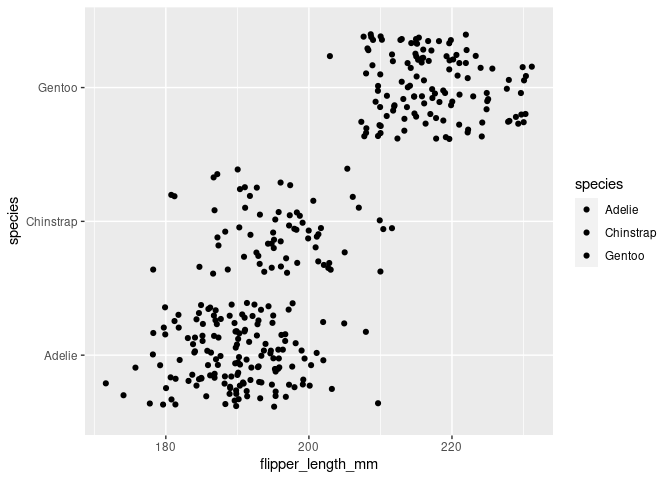
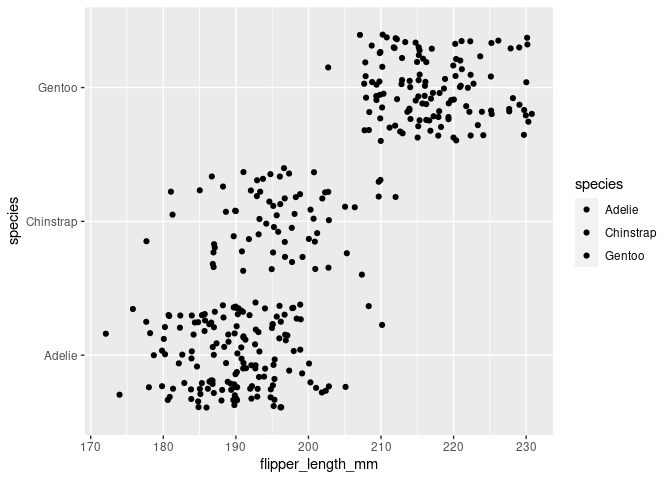
Completed the advanced section of the excercise by including the scatter plots and responses.

diff --git a/activity02-ggplot2-intro.md b/activity02-ggplot2-intro.md
@@ -320,16 +320,36 @@ exploring scatterplots using `{ggplot2}`.
 In the code chunk below, create a scatterplot for the relationship
 between `flipper_length_mm` and `body_mass_g`.
 
+``` r
+ggplot(data = penguins, mapping = aes(x = flipper_length_mm, y = body_mass_g)) +
+geom_point()
+```
+
+    ## Warning: Removed 2 rows containing missing values (geom_point).
+
+![](activity02-ggplot2-intro_files/figure-gfm/flipper_vs_mass-1.png)<!-- -->
+
 Describe any patterns that you notice.
 
-**Response**:
+**Response**:flipper length has a positive relationship to bodymass i.e
+the longer the flipper length the higher the body mass.
 
 Recreate your scatterplot in the code chunk below; however, *map*
 `species` to the `color` and `shape` aesthetics.
 
+``` r
+ggplot(data = penguins, mapping = aes(x = flipper_length_mm, y = body_mass_g, colour = species, shape = species)) +
+geom_point()
+```
+
+    ## Warning: Removed 2 rows containing missing values (geom_point).
+
+![](activity02-ggplot2-intro_files/figure-gfm/flipper_vs_mass_with_species-1.png)<!-- -->
+
 Describe any patterns that you notice.
 
-**Response**:
+**Response**:The Gentoo species has generally longer flipper lengths and
+corresponding higher body mass than the rest.
 
 The previous plot looked great except even in this rather small dataset
 (n = 344), there might are a number of points overlapping. In the R code
@@ -338,9 +358,20 @@ aesthetic) of `size` (using some value larger than zero) and `alpha`
 (using some value between 0 and 1) to make your previous plot more
 effective.
 
+``` r
+ggplot(data = penguins, mapping = aes(x = flipper_length_mm, y = body_mass_g, colour = species, shape = species), size = "3" , alpha = "0.6") +
+geom_point()
+```
+
+    ## Warning: Removed 2 rows containing missing values (geom_point).
+
+![](activity02-ggplot2-intro_files/figure-gfm/flipper_vs_mass_with_size_alpha-1.png)<!-- -->
+
 Discuss the decisions you made to help your plot be easier to read.
 
-**Response**:
+**Response**:The size aesthetic increases the size of the points or
+shape making them more visible while the alpha makes a difference in the
+level or degree of shading.
 
 Knit, then stage everything listed in your **Git** pane, commit (with a
 meaningful commit message), and push to your GitHub repo. Go to GitHub
